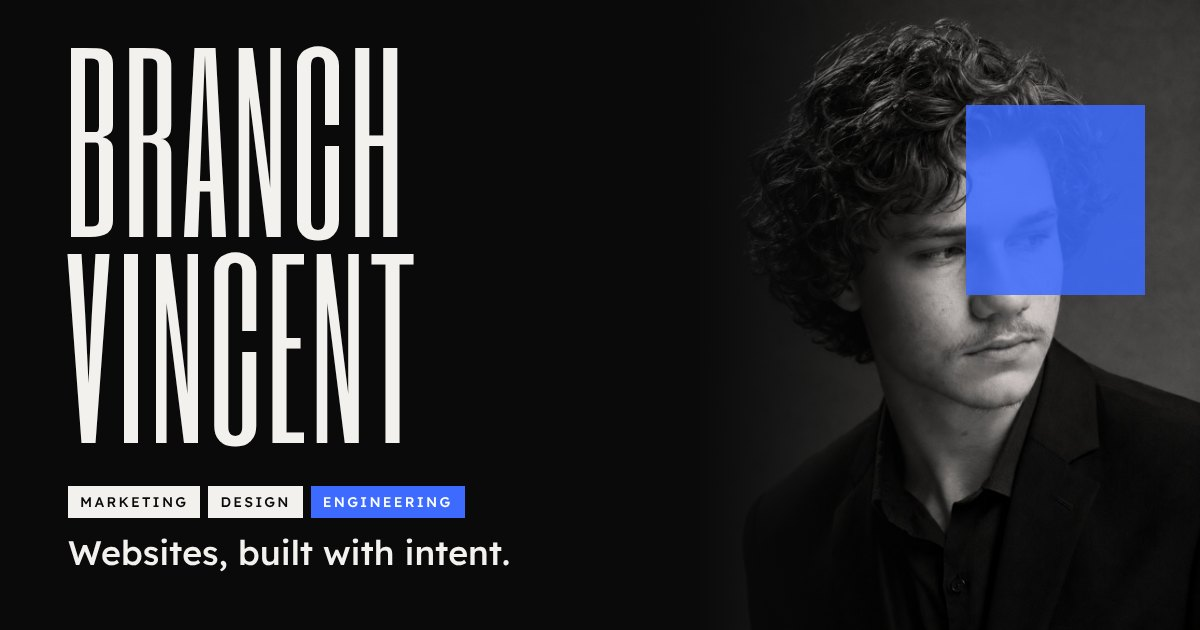
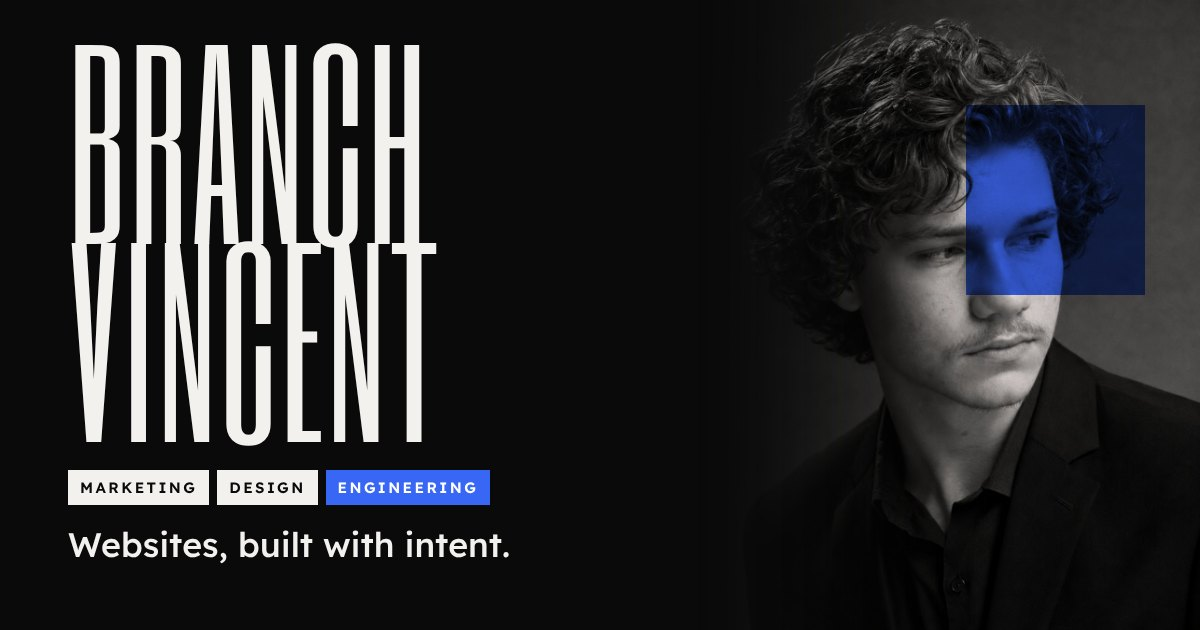
Apply fixes from the full-site review
- Phone menu: focus ring no longer clipped; fits or scrolls on landscape
  phones and at high zoom.
- Phone portrait melts into the header band at the top as well.
- Above 1440px, full-width bands line up with the centred sections.
- Very narrow phones no longer break the domains and email mid-word.
- Intro: skipping with a click no longer hits the link underneath, and
  Space or PageDown no longer scrolls the page away from the hero.
- Header returns without the entrance delay when scrolling back up.
- If the script never loads, the plain nav comes back instead of a
  MENU button that does nothing.
- Escape hides the VIEW cursor circle.
- Selected Work rows use each case study's cover, sharp on phones.
- Link preview image uses the multiply blue square; favicons match.

Claude-Session: https://claude.ai/code/session_01XanVTUaxbMxs4r5W6UGd9h

Changed region(s): [[0.0308, 0.0603, 0.4317, 0.9048], [0.8017, 0.1508, 0.9558, 0.4825]]

diff --git a/src/style.css b/src/style.css
@@ -58,6 +58,7 @@ ul, ol { padding: 0; }
 .site-header { position: fixed; inset: 0 0 auto 0; z-index: 50; display: flex; align-items: center; justify-content: space-between; gap: 16px 32px; padding: 14px var(--gutter); padding-top: max(14px, env(safe-area-inset-top)); border-bottom: 1px solid transparent; transition: background-color .4s ease, border-color .4s ease, padding .4s ease, transform .5s var(--ease-out); }
 .site-header.is-scrolled { background: rgba(10, 10, 11, .86); -webkit-backdrop-filter: blur(12px); backdrop-filter: blur(12px); border-bottom-color: var(--line); padding-block: 8px; }
 .site-header.is-hidden { transform: translateY(-100%); }
+html:not(.has-js) .site-header { position: absolute; } /* without the script nothing turns it solid, so let it scroll away */
 .site-header.menu-open { -webkit-backdrop-filter: none; backdrop-filter: none; background: transparent; border-bottom-color: transparent; transform: none; }
 .wordmark { font-family: var(--display); font-size: 44px; line-height: 1; letter-spacing: .04em; text-decoration: none; color: var(--text); padding-block: 4px; }
 .wordmark:hover { color: var(--text); }
@@ -96,7 +97,7 @@ ul, ol { padding: 0; }
 .values-wave img { width: 100%; height: 100%; display: block; }
 .values-wave canvas { position: absolute; inset: 0; width: 100%; height: 100%; display: block; }
 .values .label { position: relative; margin-bottom: 16px; }
-.values-words { position: relative; display: flex; flex-wrap: wrap; gap: 0 .22em; list-style: none; font-size: clamp(88px, 13vw, 196px); }
+.values-words { position: relative; display: flex; flex-wrap: wrap; gap: 0 .22em; list-style: none; font-size: clamp(88px, 13vw, 186px); }
 /* With motion, the words run on one long line that pans sideways with the scroll. */
 .motion .values-words { flex-wrap: nowrap; width: max-content; font-size: clamp(120px, 19vw, 300px); white-space: nowrap; will-change: transform; }
 .values-words .outline { color: transparent; -webkit-text-stroke: 1.5px var(--text); transition: color .5s ease; }
@@ -200,6 +201,11 @@ ul, ol { padding: 0; }
 .site-footer { display: flex; flex-wrap: wrap; justify-content: space-between; gap: 12px 32px; padding: 24px var(--gutter); padding-bottom: max(24px, env(safe-area-inset-bottom)); font-size: 13px; color: var(--muted); border-top: 1px solid var(--line-soft); }
 .site-footer a { text-decoration: none; display: inline-block; padding-block: 12px; margin-block: -12px; }
 
+/* Above the 1440px frame, full-width bands line their content up with the centred sections, not the screen edge. */
+:root { --edge: max(var(--gutter), calc((100% - var(--max)) / 2 + var(--gutter))); }
+.site-header, .values, .hero-content, .strip .label, .film, .contact-inner, .site-footer { padding-inline: var(--edge); }
+.scroll-cue { right: var(--edge); }
+
 /* ---------- Motion (only applied when JS adds .motion to <html>) ---------- */
 
 /* Split text: each line or character rises out of a mask */
@@ -238,7 +244,9 @@ ul, ol { padding: 0; }
 .motion .hero.is-in .intro { opacity: 1; transform: none; transition-delay: .62s; }
 .motion .hero.is-in .tags li { opacity: 1; transform: none; transition-delay: calc(.75s + var(--i, 0) * 90ms); }
 .motion .hero.is-in .scroll-cue { opacity: 1; transform: none; transition-delay: 1.1s; }
-.motion.is-ready .site-header { opacity: 1; transform: none; transition-delay: .4s; }
+.motion .site-header { transition: opacity .9s ease, transform 1s var(--ease-out), background-color .4s ease, border-color .4s ease, padding .4s ease; }
+.motion.is-ready .site-header { opacity: 1; transform: none; transition-delay: .4s, .4s, 0s, 0s, 0s; }
+.motion.is-ready .site-header.is-scrolled { transition-delay: 0s; }
 .motion.is-ready .site-header.is-hidden { transform: translateY(-100%); transition-delay: 0s; }
 .motion .site-header.menu-open { opacity: 1; transform: none; }
 
@@ -259,23 +267,29 @@ ul, ol { padding: 0; }
   .has-js .menu-toggle { display: inline-flex; align-items: center; }
   .site-header { flex-wrap: wrap; }
   .nav-links { flex-wrap: wrap; gap: 0 20px; }
-  .has-js .site-nav { position: fixed; inset: 0; z-index: -1; background: var(--bg); display: flex; align-items: center; padding: 96px var(--gutter) 48px; opacity: 0; visibility: hidden; transition: opacity .35s ease, visibility .35s; }
+  .has-js .site-nav { position: fixed; inset: 0; z-index: -1; background: var(--bg); display: flex; align-items: flex-start; overflow-y: auto; overscroll-behavior: contain; padding: 96px var(--gutter) 48px; opacity: 0; visibility: hidden; transition: opacity .35s ease, visibility .35s; }
   .has-js .site-nav.is-open { opacity: 1; visibility: visible; }
-  .has-js .nav-links { flex-direction: column; align-items: flex-start; gap: 4px; }
-  .has-js .nav-links li { overflow: hidden; }
-  .has-js .nav-links a { font-family: var(--display); text-transform: uppercase; font-size: 88px; line-height: .95; letter-spacing: .02em; padding-block: 4px; transform: translateY(100%); transition: transform .7s var(--ease-out); transition-delay: calc(var(--i, 0) * 70ms); }
+  .has-js .nav-links { flex-direction: column; align-items: flex-start; gap: 4px; margin-block: auto; } /* centred when it fits, scrolls when it doesn't */
+  .has-js .nav-links li { overflow: hidden; padding: 8px; margin: -8px; } /* room inside the reveal mask for the focus ring */
+  .has-js .nav-links a { font-family: var(--display); text-transform: uppercase; font-size: 88px; line-height: .95; letter-spacing: .02em; padding-block: 4px; transform: translateY(calc(100% + 8px)); transition: transform .7s var(--ease-out); transition-delay: calc(var(--i, 0) * 70ms); }
   .has-js .site-nav.is-open .nav-links a { transform: none; }
   .has-js .nav-links .pill { border: 0; padding: 4px 0; border-radius: 0; color: var(--accent); }
   .has-js .nav-links .pill:hover { background: none; color: var(--text); }
   .has-js .nav-links .apos { margin-left: -.15em; } /* Six Caps sets the apostrophe with a wide left gap */
   .hero { min-height: 0; justify-content: flex-start; padding-top: 76px; }
   .hero-photo { position: relative; height: auto; width: 100%; z-index: 0; }
-  .hero-photo { -webkit-mask-image: linear-gradient(0deg, transparent 0%, rgba(0,0,0,.08) 7%, rgba(0,0,0,.24) 14%, rgba(0,0,0,.46) 21%, rgba(0,0,0,.68) 28%, rgba(0,0,0,.86) 35%, #000 44%); mask-image: linear-gradient(0deg, transparent 0%, rgba(0,0,0,.08) 7%, rgba(0,0,0,.24) 14%, rgba(0,0,0,.46) 21%, rgba(0,0,0,.68) 28%, rgba(0,0,0,.86) 35%, #000 44%); }
+  .hero-photo { -webkit-mask-image: linear-gradient(0deg, transparent 0%, rgba(0,0,0,.08) 7%, rgba(0,0,0,.24) 14%, rgba(0,0,0,.46) 21%, rgba(0,0,0,.68) 28%, rgba(0,0,0,.86) 35%, #000 44%), linear-gradient(180deg, transparent 0%, rgba(0,0,0,.2) 3%, rgba(0,0,0,.5) 6%, rgba(0,0,0,.8) 9%, #000 13%); mask-image: linear-gradient(0deg, transparent 0%, rgba(0,0,0,.08) 7%, rgba(0,0,0,.24) 14%, rgba(0,0,0,.46) 21%, rgba(0,0,0,.68) 28%, rgba(0,0,0,.86) 35%, #000 44%), linear-gradient(180deg, transparent 0%, rgba(0,0,0,.2) 3%, rgba(0,0,0,.5) 6%, rgba(0,0,0,.8) 9%, #000 13%); -webkit-mask-composite: source-in; mask-composite: intersect; }
   .hero-content { margin-top: -34vw; padding-bottom: 48px; z-index: 1; }
   .hero-name { font-size: 40vw; }
   .scroll-cue { display: none; }
   .values-wave { width: 120%; right: -30%; opacity: .3; }
   .contact { min-height: 560px; }
+}
+@media (max-width: 720px) and (max-height: 560px) {
+  /* Landscape phones and high zoom: smaller menu type; if it still doesn't fit, the list scrolls under the header row. */
+  .site-header.menu-open { background: var(--bg); }
+  .has-js .site-nav { padding-top: 84px; padding-bottom: 24px; scroll-padding-block: 84px 16px; clip-path: inset(72px 0 0 0); }
+  .has-js .nav-links a { font-size: 56px; }
 }
 @media (max-width: 679px) {
   .film { display: grid; grid-template-columns: .667fr .934fr; }
@@ -289,6 +303,11 @@ ul, ol { padding: 0; }
 }
 @media (max-width: 420px) {
   .tags li { font-size: 11px; letter-spacing: .12em; padding: 8px 10px; }
+}
+@media (max-width: 340px) {
+  /* Keep long domains and the email address from breaking mid-word on very narrow phones. */
+  .project-title h3 { font-size: 8.4vw; }
+  .contact-email { font-size: 6.2vw; }
 }
 /* Page-to-page transitions (Chrome, Edge, Safari 18+). Pages cross-fade; a case study's cover grows
    out of the image on the link that was clicked (named in transitions.js and the case page's head). */

diff --git a/index.html b/index.html
@@ -38,16 +38,17 @@
   (function () {
     var d = document.documentElement;
     d.classList.add('has-js');
+    setTimeout(function () {
+      // Too late for the animations: show the static page and keep it static even if the script arrives later.
+      // Dropping has-js too puts the nav back in the page, so the MENU button is never left without a script behind it.
+      if (!d.classList.contains('js-live')) { d.classList.remove('has-js', 'motion', 'is-intro'); d.classList.add('no-motion'); }
+    }, 4000);
     try {
       if (matchMedia('(prefers-reduced-motion: reduce)').matches || !('IntersectionObserver' in window) || !('animate' in Element.prototype)) return;
       d.classList.add('motion');
       var seen = null;
       try { seen = sessionStorage.getItem('bv-intro-seen'); } catch (e) {}
       if (!seen && location.hash.length < 2) d.classList.add('is-intro');
-      setTimeout(function () {
-        // Too late for the animations: show the static page and keep it static even if the script arrives later.
-        if (!d.classList.contains('js-live')) { d.classList.remove('motion', 'is-intro'); d.classList.add('no-motion'); }
-      }, 4000);
     } catch (e) {}
   })();
 </script>
@@ -130,10 +131,7 @@
             <p class="project-scope" data-scramble>BRAND · PRODUCT VISUALS · WEBSITE</p>
           </div>
           <div class="project-media wipe" data-vt-media>
-            <picture>
-              <source srcset="assets/zero.webp" type="image/webp">
-              <img src="assets/zero.jpg" alt="ZERO syrup bottles on a concrete bar top" width="380" height="708" loading="lazy" decoding="async">
-            </picture>
+            <img src="assets/work/zero/cover.webp" srcset="assets/work/zero/cover-480.webp 480w, assets/work/zero/cover.webp 864w" sizes="(max-width: 600px) min(420px, 92vw), 300px" alt="ZERO syrup bottles in Hazelnut, Salted Caramel and Plain on a concrete bar top, in black and white" width="864" height="1080" loading="lazy" decoding="async">
             <div class="tint" aria-hidden="true"></div>
           </div>
           <span class="visually-hidden" id="p1-cs">case study</span>
@@ -150,10 +148,7 @@
             <p class="project-scope" data-scramble>COMMERCE PLATFORM · SOLO BUILD</p>
           </div>
           <div class="project-media dim wipe" data-vt-media>
-            <picture>
-              <source srcset="assets/ezkart.webp" type="image/webp">
-              <img src="assets/ezkart.jpg" alt="The Ezkart page editor showing a storefront hero, &quot;A little less ordinary.&quot;, with a product photo of a bottle" width="600" height="750" loading="lazy" decoding="async">
-            </picture>
+            <img src="assets/work/ezkart/cover.webp" srcset="assets/work/ezkart/cover-480.webp 480w, assets/work/ezkart/cover.webp 819w" sizes="(max-width: 600px) min(420px, 92vw), 300px" alt="Two “form.” bottles, the demo brand used across Ezkart, in black and white" width="819" height="1024" loading="lazy" decoding="async">
             <div class="tint on-hover" aria-hidden="true"></div>
           </div>
           <span class="visually-hidden" id="p2-cs">case study</span>
@@ -170,10 +165,7 @@
             <p class="project-scope" data-scramble>WEBSITE</p>
           </div>
           <div class="project-media dim wipe" data-vt-media>
-            <picture>
-              <source srcset="assets/easysolutions.webp" type="image/webp">
-              <img src="assets/easysolutions.jpg" alt="Jakarta skyline at dusk, from the Easy Solutions Indonesia website" width="600" height="750" loading="lazy" decoding="async">
-            </picture>
+            <img src="assets/work/easy-solutions/cover.webp" srcset="assets/work/easy-solutions/cover-480.webp 480w, assets/work/easy-solutions/cover.webp 819w" sizes="(max-width: 600px) min(420px, 92vw), 300px" alt="A city skyline at dusk with a tall glass tower, in black and white" width="819" height="1024" loading="lazy" decoding="async">
             <div class="tint on-hover" aria-hidden="true"></div>
           </div>
           <span class="visually-hidden" id="p3-cs">case study</span>
@@ -190,10 +182,7 @@
             <p class="project-scope" data-scramble>WEBSITE</p>
           </div>
           <div class="project-media dim wipe" data-vt-media>
-            <picture>
-              <source srcset="assets/jenang.webp" type="image/webp">
-              <img src="assets/jenang.jpg" alt="Jenang Gemi porridge product box" width="380" height="708" loading="lazy" decoding="async">
-            </picture>
+            <img src="assets/work/jenang-gemi/cover.webp" srcset="assets/work/jenang-gemi/cover-480.webp 480w, assets/work/jenang-gemi/cover.webp 864w" sizes="(max-width: 600px) min(420px, 92vw), 300px" alt="An open Jenang Gemi Bubur box with its sachets on a wooden board, in black and white" width="864" height="1080" loading="lazy" decoding="async">
             <div class="tint on-hover" aria-hidden="true"></div>
           </div>
           <span class="visually-hidden" id="p4-cs">case study</span>
@@ -210,10 +199,7 @@
             <p class="project-scope" data-scramble>POSITIONING · WEBSITE</p>
           </div>
           <div class="project-media dim wipe" data-vt-media>
-            <picture>
-              <source srcset="assets/royal.webp" type="image/webp">
-              <img src="assets/royal.jpg" alt="Gloved bartender holding a bottle of Royal mint syrup and a jigger" width="380" height="708" loading="lazy" decoding="async">
-            </picture>
+            <img src="assets/work/royal-syrup/cover.webp" srcset="assets/work/royal-syrup/cover-480.webp 480w, assets/work/royal-syrup/cover.webp 960w" sizes="(max-width: 600px) min(420px, 92vw), 300px" alt="A one-liter bottle of Royal Butterscotch syrup with a caramel splash, in black and white" width="960" height="1200" loading="lazy" decoding="async">
             <div class="tint on-hover" aria-hidden="true"></div>
           </div>
           <span class="visually-hidden" id="p5-cs">case study</span>

diff --git a/src/modules/intro.js b/src/modules/intro.js
@@ -64,8 +64,8 @@ export function runIntro() {
   const finish = () => {
     if (finished) return;
     finished = true;
-    window.removeEventListener('keydown', finish);
-    window.removeEventListener('pointerdown', finish);
+    window.removeEventListener('keydown', onKey);
+    window.removeEventListener('pointerdown', onPointer);
     window.removeEventListener('wheel', finish);
     window.removeEventListener('touchmove', finish);
     screen.getAnimations({ subtree: true }).forEach((a) => a.cancel());
@@ -73,8 +73,21 @@ export function runIntro() {
     revealHero(hero, { fast: true });
     hero.classList.add('square-in');
   };
-  window.addEventListener('keydown', finish);
-  window.addEventListener('pointerdown', finish);
+  // A key that skips the intro shouldn't also page the document down, out of sight of the hero.
+  const onKey = (e) => {
+    if ([' ', 'PageDown', 'ArrowDown', 'End'].includes(e.key)) e.preventDefault();
+    finish();
+  };
+  // The intro screen lets the pointer through, so swallow the click that ends a skip:
+  // otherwise it lands on an invisible link or the menu button underneath.
+  const onPointer = () => {
+    const swallow = (e) => { e.preventDefault(); e.stopPropagation(); };
+    window.addEventListener('click', swallow, { capture: true, once: true });
+    setTimeout(() => window.removeEventListener('click', swallow, true), 1000);
+    finish();
+  };
+  window.addEventListener('keydown', onKey);
+  window.addEventListener('pointerdown', onPointer);
   window.addEventListener('wheel', finish, { passive: true });
   window.addEventListener('touchmove', finish, { passive: true });
 
@@ -115,7 +128,8 @@ export function runIntro() {
       hero.classList.add('square-in');
       // Cross-fade the flat intro square into the real one, which multiplies over the photo.
       screen.animate([{ opacity: 1 }, { opacity: 0 }], { duration: 450, easing: 'ease-out', fill: 'forwards' }).finished.then(() => screen.remove(), () => screen.remove());
-      ['keydown', 'pointerdown'].forEach((t) => window.removeEventListener(t, finish));
+      window.removeEventListener('keydown', onKey);
+      window.removeEventListener('pointerdown', onPointer);
       window.removeEventListener('wheel', finish);
       window.removeEventListener('touchmove', finish);
     }, duration + 30);

diff --git a/work/ezkart/index.html b/work/ezkart/index.html
@@ -37,7 +37,7 @@
     var d = document.documentElement;
     d.classList.add('has-js');
     setTimeout(function () {
-      if (!d.classList.contains('js-live')) { d.classList.remove('motion'); d.classList.add('no-motion'); }
+      if (!d.classList.contains('js-live')) { d.classList.remove('has-js', 'motion'); d.classList.add('no-motion'); }
     }, 4000);
     try {
       if (!matchMedia('(prefers-reduced-motion: reduce)').matches && 'IntersectionObserver' in window && 'animate' in Element.prototype) d.classList.add('motion');
@@ -205,7 +205,7 @@
       <span class="next-label label">Next project · 03</span>
       <span class="next-name display">EASY SOLUTIONS <svg viewBox="0 0 24 24" fill="none" stroke="currentColor" stroke-width="2" stroke-linecap="round" stroke-linejoin="round" aria-hidden="true"><path d="M4 12h16M14 6l6 6-6 6"/></svg></span>
       <span class="next-domain">easysolutions.id</span>
-      <span class="next-media" aria-hidden="true" data-vt-media><img src="../../assets/work/easy-solutions/cover.webp" alt="" width="819" height="1024" loading="lazy" decoding="async"></span>
+      <span class="next-media" aria-hidden="true" data-vt-media><img src="../../assets/work/easy-solutions/cover-480.webp" alt="" width="819" height="1024" loading="lazy" decoding="async"></span>
     </a>
   </nav>
 

diff --git a/work/easy-solutions/index.html b/work/easy-solutions/index.html
@@ -37,7 +37,7 @@
     var d = document.documentElement;
     d.classList.add('has-js');
     setTimeout(function () {
-      if (!d.classList.contains('js-live')) { d.classList.remove('motion'); d.classList.add('no-motion'); }
+      if (!d.classList.contains('js-live')) { d.classList.remove('has-js', 'motion'); d.classList.add('no-motion'); }
     }, 4000);
     try {
       if (!matchMedia('(prefers-reduced-motion: reduce)').matches && 'IntersectionObserver' in window && 'animate' in Element.prototype) d.classList.add('motion');
@@ -201,7 +201,7 @@
       <span class="next-label label">Next project · 04</span>
       <span class="next-name display">JENANG GEMI <svg viewBox="0 0 24 24" fill="none" stroke="currentColor" stroke-width="2" stroke-linecap="round" stroke-linejoin="round" aria-hidden="true"><path d="M4 12h16M14 6l6 6-6 6"/></svg></span>
       <span class="next-domain">jenanggemi.com</span>
-      <span class="next-media" aria-hidden="true" data-vt-media><img src="../../assets/work/jenang-gemi/cover.webp" alt="" width="864" height="1080" loading="lazy" decoding="async"></span>
+      <span class="next-media" aria-hidden="true" data-vt-media><img src="../../assets/work/jenang-gemi/cover-480.webp" alt="" width="864" height="1080" loading="lazy" decoding="async"></span>
     </a>
   </nav>
 

diff --git a/work/jenang-gemi/index.html b/work/jenang-gemi/index.html
@@ -37,7 +37,7 @@
     var d = document.documentElement;
     d.classList.add('has-js');
     setTimeout(function () {
-      if (!d.classList.contains('js-live')) { d.classList.remove('motion'); d.classList.add('no-motion'); }
+      if (!d.classList.contains('js-live')) { d.classList.remove('has-js', 'motion'); d.classList.add('no-motion'); }
     }, 4000);
     try {
       if (!matchMedia('(prefers-reduced-motion: reduce)').matches && 'IntersectionObserver' in window && 'animate' in Element.prototype) d.classList.add('motion');
@@ -202,7 +202,7 @@
       <span class="next-label label">Next project · 05</span>
       <span class="next-name display">ROYAL SYRUP <svg viewBox="0 0 24 24" fill="none" stroke="currentColor" stroke-width="2" stroke-linecap="round" stroke-linejoin="round" aria-hidden="true"><path d="M4 12h16M14 6l6 6-6 6"/></svg></span>
       <span class="next-domain">royalsyrup.id</span>
-      <span class="next-media" aria-hidden="true" data-vt-media><img src="../../assets/work/royal-syrup/cover.webp" alt="" width="960" height="1200" loading="lazy" decoding="async"></span>
+      <span class="next-media" aria-hidden="true" data-vt-media><img src="../../assets/work/royal-syrup/cover-480.webp" alt="" width="960" height="1200" loading="lazy" decoding="async"></span>
     </a>
   </nav>
 

diff --git a/work/zero/index.html b/work/zero/index.html
@@ -37,7 +37,7 @@
     var d = document.documentElement;
     d.classList.add('has-js');
     setTimeout(function () {
-      if (!d.classList.contains('js-live')) { d.classList.remove('motion'); d.classList.add('no-motion'); }
+      if (!d.classList.contains('js-live')) { d.classList.remove('has-js', 'motion'); d.classList.add('no-motion'); }
     }, 4000);
     try {
       if (!matchMedia('(prefers-reduced-motion: reduce)').matches && 'IntersectionObserver' in window && 'animate' in Element.prototype) d.classList.add('motion');
@@ -205,7 +205,7 @@
       <span class="next-label label">Next project · 02</span>
       <span class="next-name display">EZKART <svg viewBox="0 0 24 24" fill="none" stroke="currentColor" stroke-width="2" stroke-linecap="round" stroke-linejoin="round" aria-hidden="true"><path d="M4 12h16M14 6l6 6-6 6"/></svg></span>
       <span class="next-domain">ezkart.id</span>
-      <span class="next-media" aria-hidden="true" data-vt-media><img src="../../assets/work/ezkart/cover.webp" alt="" width="819" height="1024" loading="lazy" decoding="async"></span>
+      <span class="next-media" aria-hidden="true" data-vt-media><img src="../../assets/work/ezkart/cover-480.webp" alt="" width="819" height="1024" loading="lazy" decoding="async"></span>
     </a>
   </nav>
 

diff --git a/work/royal-syrup/index.html b/work/royal-syrup/index.html
@@ -37,7 +37,7 @@
     var d = document.documentElement;
     d.classList.add('has-js');
     setTimeout(function () {
-      if (!d.classList.contains('js-live')) { d.classList.remove('motion'); d.classList.add('no-motion'); }
+      if (!d.classList.contains('js-live')) { d.classList.remove('has-js', 'motion'); d.classList.add('no-motion'); }
     }, 4000);
     try {
       if (!matchMedia('(prefers-reduced-motion: reduce)').matches && 'IntersectionObserver' in window && 'animate' in Element.prototype) d.classList.add('motion');
@@ -196,7 +196,7 @@
       <span class="next-label label">Next project · 01</span>
       <span class="next-name display">ZERO <svg viewBox="0 0 24 24" fill="none" stroke="currentColor" stroke-width="2" stroke-linecap="round" stroke-linejoin="round" aria-hidden="true"><path d="M4 12h16M14 6l6 6-6 6"/></svg></span>
       <span class="next-domain">zerofoods.id</span>
-      <span class="next-media" aria-hidden="true" data-vt-media><img src="../../assets/work/zero/cover.webp" alt="" width="864" height="1080" loading="lazy" decoding="async"></span>
+      <span class="next-media" aria-hidden="true" data-vt-media><img src="../../assets/work/zero/cover-480.webp" alt="" width="864" height="1080" loading="lazy" decoding="async"></span>
     </a>
   </nav>
 

diff --git a/src/modules/interactions.js b/src/modules/interactions.js
@@ -31,9 +31,12 @@ export function initCursor() {
     if (state.s < 0.01 && state.ts === 0) { state.x = e.clientX; state.y = e.clientY; }
     kick();
   }, { passive: true });
+  // Escape hides the circle until the pointer leaves the row, so it never has to sit over text.
+  let dismissed = false;
+  window.addEventListener('keydown', (e) => { if (e.key === 'Escape' && state.ts) { dismissed = true; state.ts = 0; kick(); } });
   rows.forEach((row) => {
-    row.addEventListener('pointerenter', () => { cursor.textContent = row.dataset.cursor; state.ts = 1; kick(); });
-    row.addEventListener('pointerleave', () => { state.ts = 0; kick(); });
+    row.addEventListener('pointerenter', () => { if (dismissed) return; cursor.textContent = row.dataset.cursor; state.ts = 1; kick(); });
+    row.addEventListener('pointerleave', () => { dismissed = false; state.ts = 0; kick(); });
   });
   window.addEventListener('scroll', () => {
     // Hide the cursor if the row scrolls out from under it.

diff --git a/404.html b/404.html
@@ -34,7 +34,7 @@
     var d = document.documentElement;
     d.classList.add('has-js');
     setTimeout(function () {
-      if (!d.classList.contains('js-live')) { d.classList.remove('motion'); d.classList.add('no-motion'); }
+      if (!d.classList.contains('js-live')) { d.classList.remove('has-js', 'motion'); d.classList.add('no-motion'); }
     }, 4000);
     try {
       if (!matchMedia('(prefers-reduced-motion: reduce)').matches && 'IntersectionObserver' in window && 'animate' in Element.prototype) d.classList.add('motion');

diff --git a/src/modules/scroll-effects.js b/src/modules/scroll-effects.js
@@ -147,6 +147,8 @@ export function initScrollEffects({ motion }) {
       else raf = 0;
     };
     hero.addEventListener('pointermove', (e) => {
+      // Hold still while the intro square is landing on it, so the two squares line up.
+      if (document.querySelector('.intro-screen')) return;
       const r = hero.getBoundingClientRect();
       pointer.tx = clamp((e.clientX - r.left) / r.width - 0.5, -0.5, 0.5) * 28;
       pointer.ty = clamp((e.clientY - r.top) / r.height - 0.5, -0.5, 0.5) * 20;

diff --git a/src/page.js b/src/page.js
@@ -16,7 +16,7 @@ if (year) year.textContent = String(new Date().getFullYear());
 initMenu();
 
 const motion = !root.classList.contains('no-motion') && !reducedMotion() && 'IntersectionObserver' in window && 'animate' in Element.prototype;
-root.classList.add('js-live');
+root.classList.add('js-live', 'has-js');
 
 const fontsReady = (maxWait) => (document.fonts && document.fonts.ready
   ? Promise.race([document.fonts.ready, new Promise((r) => setTimeout(r, maxWait))])
